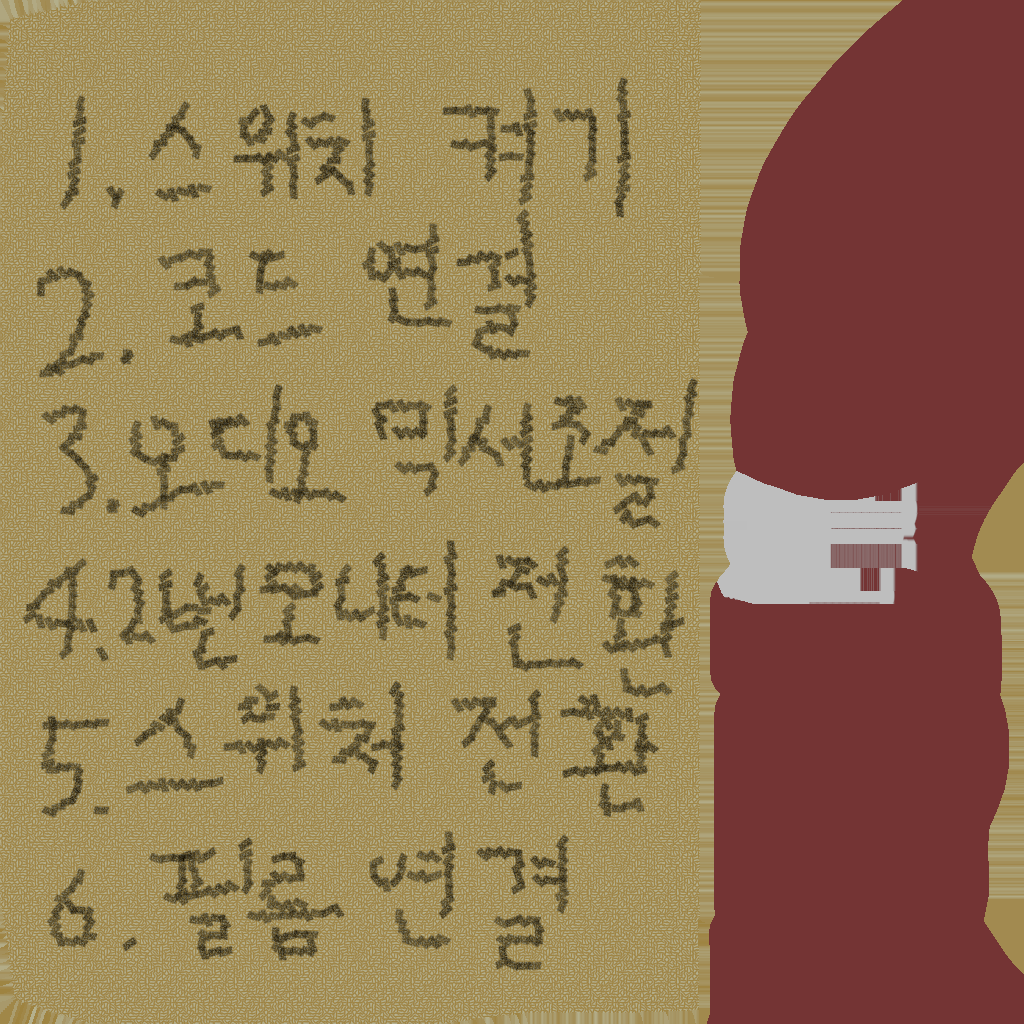
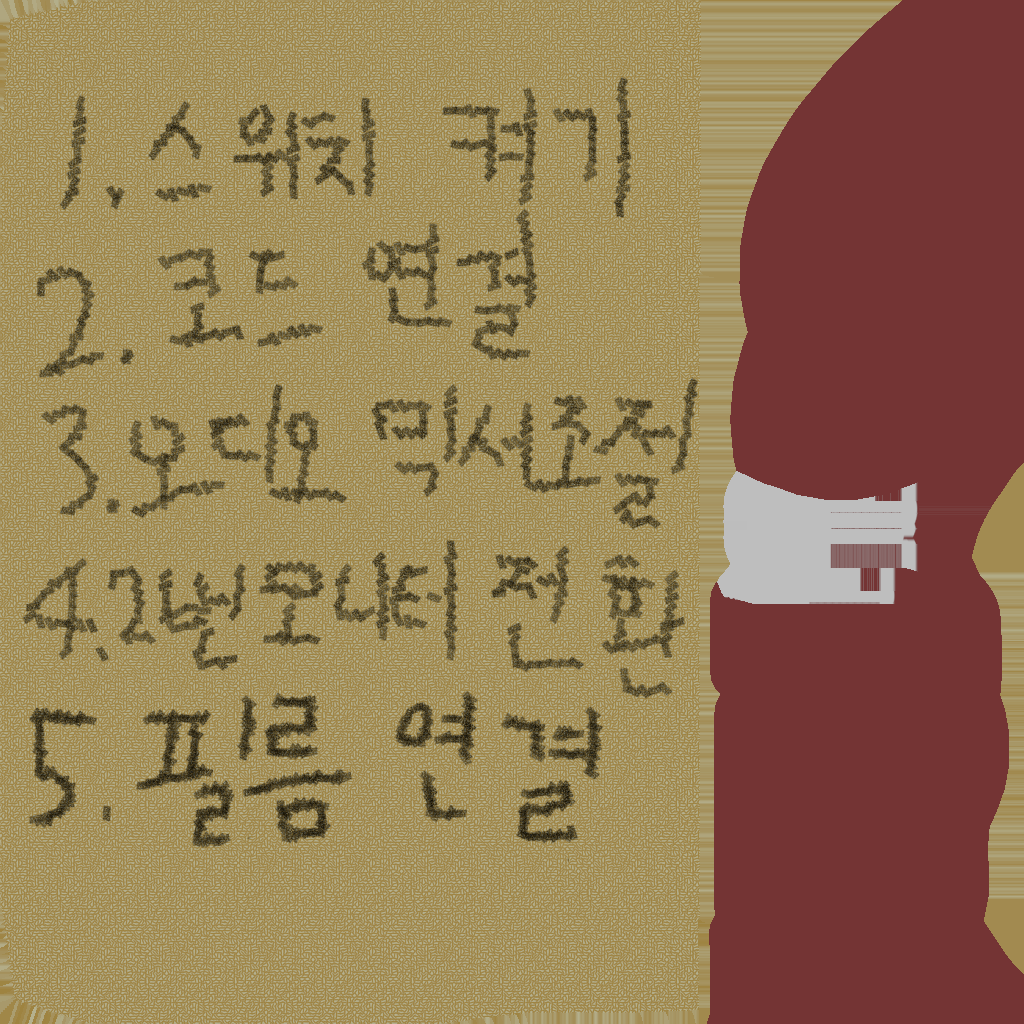
Feat: TodoList Fix

Changed region(s): [[0.0312, 0.6562, 0.6562, 0.9688], [0.0312, 0.8438, 0.0938, 0.9375], [0.0938, 0.7812, 0.125, 0.8125]]

diff --git a/Korea_GameJam/Assets/Scripts/Controller/MissionController.cs b/Korea_GameJam/Assets/Scripts/Controller/MissionController.cs
@@ -18,7 +18,7 @@ public class MissionController : MonoBehaviour
     
     private void AllMissionClearCheck()
     {
-        for (int i = 0; i < missions.Length; i++)
+        for (int i = 0; i < 5; i++)
         {
             if (missions[i].IsClear)
                 cubes[i].SetActive(true);
